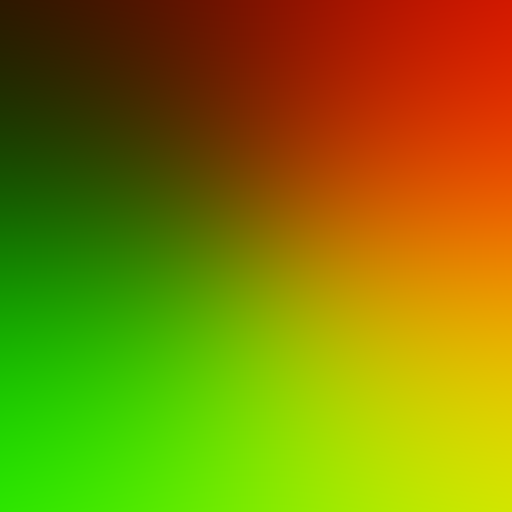
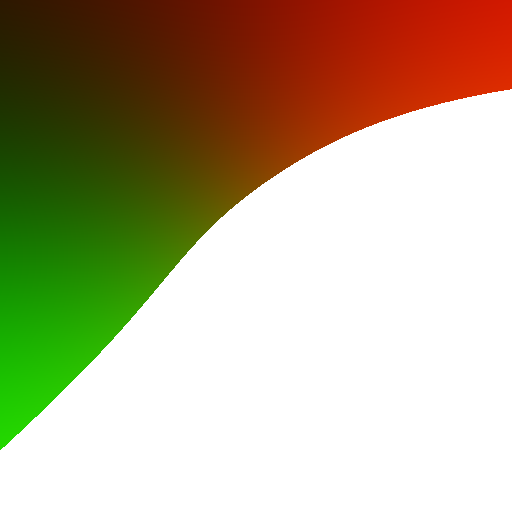
added sphere class and intersection test

diff --git a/raytracer/src/main/java/at/ac/univie/unet/a01638800/raytracer/Sphere.java b/raytracer/src/main/java/at/ac/univie/unet/a01638800/raytracer/Sphere.java
@@ -1,0 +1,122 @@
+package at.ac.univie.unet.a01638800.raytracer;
+
+import at.ac.univie.unet.a01638800.raytracer.geometricobjects.Point;
+import at.ac.univie.unet.a01638800.raytracer.geometricobjects.Vector;
+
+public class Sphere implements Intersection {
+    private at.ac.univie.unet.a01638800.raytracer.scene.Sphere parsedSphere;
+    private Point center;
+    private double radius;
+    private double radius2;
+
+    public Sphere(Point center, double radius) {
+        this.center = center;
+        this.radius = radius;
+        this.radius2 = radius * radius;
+    }
+
+    public Sphere(at.ac.univie.unet.a01638800.raytracer.scene.Sphere sphere) {
+        this.parsedSphere = sphere;
+
+        this.center = new Point(
+                Double.parseDouble(sphere.getPosition().getX()),
+                Double.parseDouble(sphere.getPosition().getY()),
+                Double.parseDouble(sphere.getPosition().getZ())
+        );
+        this.radius = Double.parseDouble(sphere.getRadius());
+        this.radius2 = this.radius * this.radius;
+    }
+
+    public at.ac.univie.unet.a01638800.raytracer.scene.Sphere getParsedSphere() {
+        return parsedSphere;
+    }
+
+    public void setParsedSphere(at.ac.univie.unet.a01638800.raytracer.scene.Sphere parsedSphere) {
+        this.parsedSphere = parsedSphere;
+    }
+
+    public Point getCenter() {
+        return center;
+    }
+
+    public void setCenter(Point center) {
+        this.center = center;
+    }
+
+    public double getRadius() {
+        return radius;
+    }
+
+    public void setRadius(double radius) {
+        this.radius = radius;
+    }
+
+    public double getRadius2() {
+        return radius2;
+    }
+
+    public void setRadius2(double radius2) {
+        this.radius2 = radius2;
+    }
+
+    @Override
+    public boolean intersectionDetected(Ray ray) {
+        // o
+        Point rayOrigin = ray.getOrigin();
+
+        // d
+        Vector rayDirection = ray.getDirection();
+
+        // solve (dt)² + 2d * (o - C)t + (o - C)² - R² = 0 for t
+
+        // (o - C)
+        Vector rayOriginToSphereCenter = this.center.subtractPoint(rayOrigin);
+
+        // a * t² + b * t + c = 0
+
+        // a = d²
+        double a = rayDirection.dotProduct(rayDirection);
+
+        // b = 2 * d * (o - C)
+        double b = 2 * rayDirection.dotProduct(rayOriginToSphereCenter);
+
+        // c = (o - C)² - R²
+        double c = rayOriginToSphereCenter.dotProduct(rayOriginToSphereCenter) - this.radius2;
+
+        // apply general solution formula
+        double t1 = 0;
+        double t2 = 0;
+
+        double[] solution = this.generalSolutionFormula(a, b, c, t1, t2);
+
+        // TODO check for nearest t and store somewhere
+
+        return solution != null;
+    }
+
+    // https://www.scratchapixel.com/code.php?id=10&origin=/lessons/3d-basic-rendering/minimal-ray-tracer-rendering-simple-shapes
+    private double[] generalSolutionFormula(double a, double b, double c, double t1, double t2) {
+        double[] solution = new double[2];
+
+        double discriminant = b * b - 4 * a * c;
+
+        if (discriminant < 0) { // no intersection was detected
+           return null;
+        } else if (discriminant == 0) { // one intersection was detected
+            t1 = t2 = - 0.5 * b / a;
+        } else if (discriminant > 0 ) { // multiple intersections were detected
+            double q = (b > 0) ?
+                    -0.5 * (b + Math.sqrt(discriminant)) :
+                    -0.5 * (b - Math.sqrt(discriminant));
+
+            t1 = q / a;
+            t2 = c /q;
+        }
+
+        solution[0] = t1;
+        solution[1] = t2;
+
+        return solution;
+    }
+
+}

diff --git a/raytracer/src/main/java/at/ac/univie/unet/a01638800/raytracer/Scene.java b/raytracer/src/main/java/at/ac/univie/unet/a01638800/raytracer/Scene.java
@@ -1,9 +1,13 @@
 package at.ac.univie.unet.a01638800.raytracer;
 
+import at.ac.univie.unet.a01638800.raytracer.scene.Surface;
+
+import java.awt.*;
 import java.awt.image.BufferedImage;
 
 public class Scene {
     private Camera camera;
+    private Sphere[] spheres;
 
     private int sceneWidth;
     private int sceneHeight;
@@ -12,6 +16,22 @@ public class Scene {
 
     public Scene(at.ac.univie.unet.a01638800.raytracer.scene.Scene scene) {
         this.camera = new Camera(scene.getCamera());
+
+        // assuming that all surfaces are of type sphere
+        int sphereCount = scene.getSurfaces().getSurfaces().size();
+
+        Sphere[] spheres = new Sphere[sphereCount];
+        int i = 0;
+
+        for (Surface surface : scene.getSurfaces().getSurfaces()) {
+            if(surface instanceof at.ac.univie.unet.a01638800.raytracer.scene.Sphere) {
+                spheres[i] = new Sphere((at.ac.univie.unet.a01638800.raytracer.scene.Sphere) surface);
+                spheres[i].getCenter().normalize();
+                i++;
+            }
+        }
+
+        this.spheres = spheres;
 
         this.sceneWidth = Integer.parseInt(scene.getCamera().getResolution().getHorizontal());
         this.sceneHeight = Integer.parseInt(scene.getCamera().getResolution().getVertical());
@@ -30,7 +50,17 @@ public class Scene {
             for(int y = 0; y < this.sceneHeight; y ++) {
                 double[] coordinates = this.camera.getRays()[x][y].getDirection().getCoordinate().getXyzValues();
 
-                this.image.getRaster().setDataElements(x, y, mapToRgb(coordinates));
+                boolean intersectionDetected = false;
+
+                for (Sphere sphere : this.spheres) {
+                    intersectionDetected = sphere.intersectionDetected(this.camera.getRays()[x][y]);
+                }
+
+                if(intersectionDetected) {
+                    this.image.setRGB(x, y, Color.WHITE.getRGB());
+                } else {
+                    this.image.getRaster().setDataElements(x, y, mapToRgb(coordinates));
+                }
             }
         }
     }

diff --git a/raytracer/src/main/java/at/ac/univie/unet/a01638800/raytracer/geometricobjects/Point.java b/raytracer/src/main/java/at/ac/univie/unet/a01638800/raytracer/geometricobjects/Point.java
@@ -4,7 +4,15 @@ public class Point {
     private Coordinate coordinate;
 
     public Point() {
-        // empty
+        this.coordinate = new Coordinate();
+
+        double[] xyzValues = new double[3];
+
+        xyzValues[0] = 0.;
+        xyzValues[1] = 0.;
+        xyzValues[2] = 0.;
+
+        this.coordinate.setXyzValues(xyzValues);
     }
 
     public Point(double x, double y, double z) {
@@ -47,5 +55,15 @@ public class Point {
 
     public Vector subtractPoint(Point point) {
         return new Vector(this.getX() - point.getX(), this.getY() + point.getY(), this.getZ() - point.getZ());
+    }
+
+    public void normalize() {
+        this.coordinate.getXyzValues()[0] = this.getX()/this.getLength();
+        this.coordinate.getXyzValues()[1] = this.getY()/this.getLength();
+        this.coordinate.getXyzValues()[2] = this.getZ()/this.getLength();
+    }
+
+    private double getLength() {
+        return Math.sqrt((this.getX() * this.getX() + this.getY() * this.getY() + this.getZ() * this.getZ()));
     }
 }

diff --git a/raytracer/src/main/java/at/ac/univie/unet/a01638800/raytracer/Intersection.java b/raytracer/src/main/java/at/ac/univie/unet/a01638800/raytracer/Intersection.java
@@ -1,0 +1,5 @@
+package at.ac.univie.unet.a01638800.raytracer;
+
+public interface Intersection {
+    public boolean intersectionDetected(Ray ray);
+}
